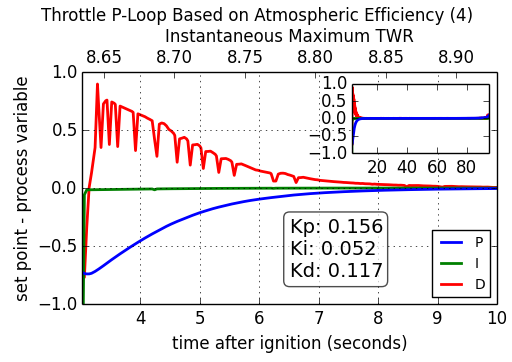
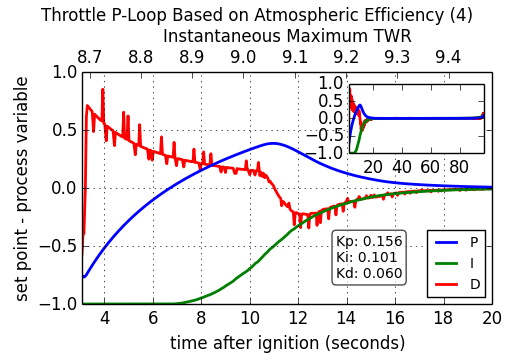
completed PID loop tutorial.

diff --git a/source/summary_topics/pidloop_tutorial.md b/source/summary_topics/pidloop_tutorial.md
@@ -6,6 +6,8 @@ The code examples in this tutorial can be tested with a similar rocket design as
 
 ![PID Tuning Rocket Design](../../images/pidtune/pidtune_rocket_design_maxtwr8.png)
 
+Those fuel-tank adapters are from the [Modular Rocket Systems (MRS) addon](https://kerbalstuff.com/mod/148/Modular%20Rocket%20Systems%20-%20Parts%20Pack), but stock tanks will work just fine. The design goal of this rocket is to have a TWR of 8 on the launchpad and enough fuel to make it past 30km when throttled for optimal atmospheric efficiency.
+
 ### Proportional Feedback Loop (P-loop)
 
 The example code from the [Design Patterns Tutorial](../design_patterns_flow_control/index.html), with some slight modifications looks like the following:
@@ -268,4 +270,14 @@ The period of oscillation was averaged over the interval and plotted on top of t
 
 ![PID Tuning 4](../../images/pidtune/pidtune4.png)
 
-The settling time of the feedback loop is now less than 10 seconds! The inset plot has the same axes as the parent and shows the long-term stability of the final PID-loop.
+As soon as the PID-loop was activated at 3 seconds after ignition, the throttle was cut. At approximately 7 seconds, the atmospheric efficiency dropped below 100% and the integral term started to climb back to zero. At 11 seconds, the engine was reignited and the feedback loop settled after about 20 seconds. The inset plot has the same axes as the parent and shows the long-term stability of the final PID-loop.
+
+### Final Thoughts
+
+The classic PID values used above are fairly aggressive and there is some overshoot at the beginning. This can be dealt with in many ways and is discussed on the [wikipedia page about PID controllers](http://en.wikipedia.org/wiki/PID_controller). For example, one might consider trying to implement a switch to a PD-loop when the integral term hits some limit, switching back once P crosses zero. The PID behavior should look like the following:
+
+![PID Tuning 5](../../images/pidtune/pidtune5.png)
+
+Finally, Controlling the throttle of a rocket is perhaps the easiest thing to implement as a PID loop in KSP using kOS. The steering was largely ignored and the orientation was always up. When writing an autopilot for horizontal atmospheric flight, one will have to deal with the direction the ship is traveling using SHIP:HEADING as well as it's orientation with SHIP:FACING. Additionally, there are the SHIP:ROTATION and SHIP:TRANSLATION vectors which can tell you the rate of change of the ship's facing and heading respectively. The controls in this case are six-dimensional using SHIP:CONTROL with YAW, PITCH, ROLL, FORE, STARBOARD, TOP and MAINTHROTTLE.
+
+The PID gain parameters are dependent on the characteristics of the ship being controlled. The size, shape, turning capability and maximum TWR should be considered when tuning a PID loop. Turning RCS on can also have an effect and you might consider changing the PID loop's gain parameters every time to switch them on or off.
